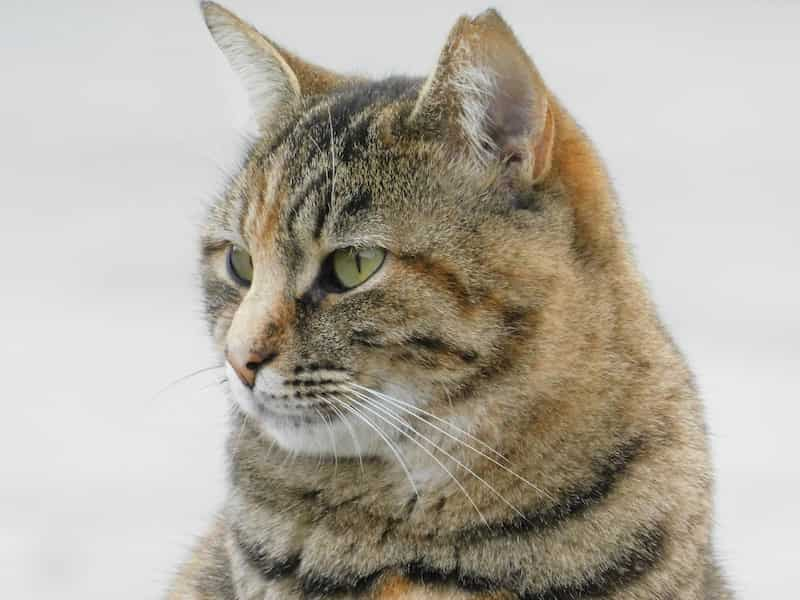
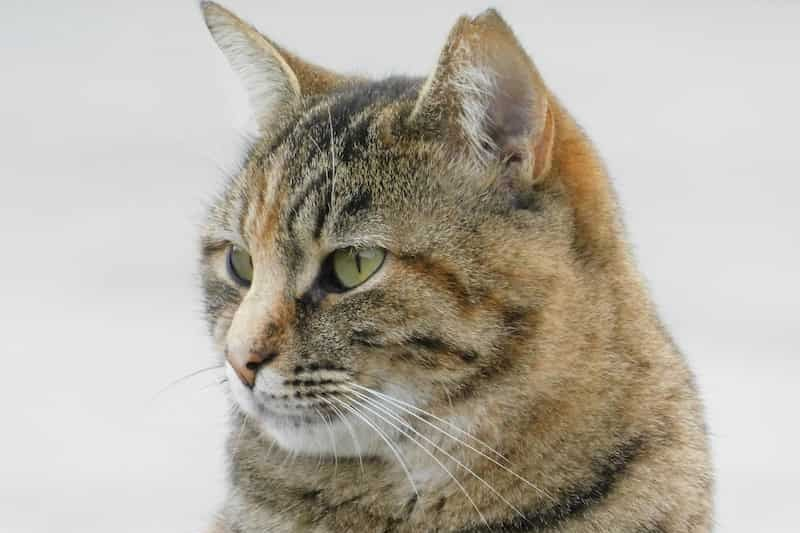
add css

diff --git a/project/styles/project.css b/project/styles/project.css
@@ -1,0 +1,74 @@
+/*large screen*/
+body {
+    font-family: "Roboto", sans-serif;
+    margin: 0;
+}
+
+/*header*/
+header {
+    display: flex;
+    background: rgb(110, 195, 214);
+    margin: 1rem 0;
+    justify-content: space-between;
+    align-items: center;
+}
+
+h1 {
+    padding: .5rem 1rem;
+}
+
+nav ul {
+    display: flex;
+    flex-direction: row;
+    list-style: none;
+    gap: 40px;
+}
+
+nav a {
+    display: block;
+    text-decoration: none;
+    font-size: 2rem;
+    padding-right: 5px;
+    margin: 0;
+}
+
+/*footer*/
+footer {
+    background: rgb(110, 195, 214);
+    margin: 1rem 0;
+    padding: .3rem;
+    text-align: center;
+    font-size: 1.2rem;
+}
+
+#menu {
+    display: none;
+}
+
+
+/*main*/
+#petContainer {
+    display: grid;
+    grid-template-columns: 1fr 1fr 1fr;
+    gap: 20px;
+    background: rgb(202, 185, 185);
+}
+
+.pet {
+    background: rgb(174, 170, 170);
+}
+
+.pet h2 {
+    text-align: center;
+    font-size: 2rem;
+}
+
+.pet p {
+    text-align: center;
+    font-size: 20px;
+}
+
+.pet img {
+    width: 100%;
+    height: auto;
+}

diff --git a/project/project.html b/project/project.html
@@ -21,6 +21,7 @@
 <body>
     <header>
         <h1>Pet Shop Adoption</h1>
+        <button id="menu">≣</button>
         <nav>
             <ul>
                 <li><a href="#" id="home">Home</a></li>
